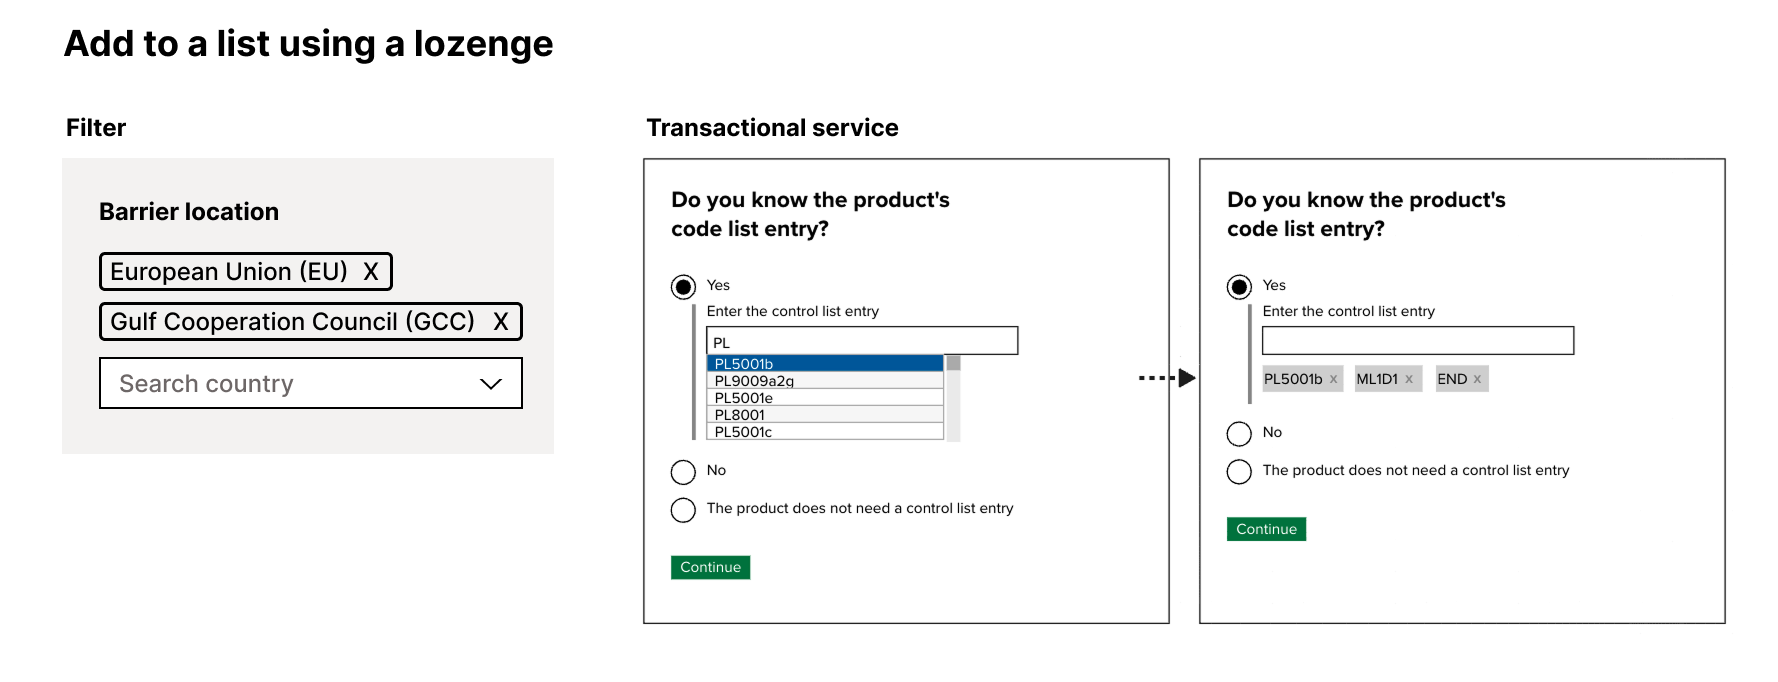
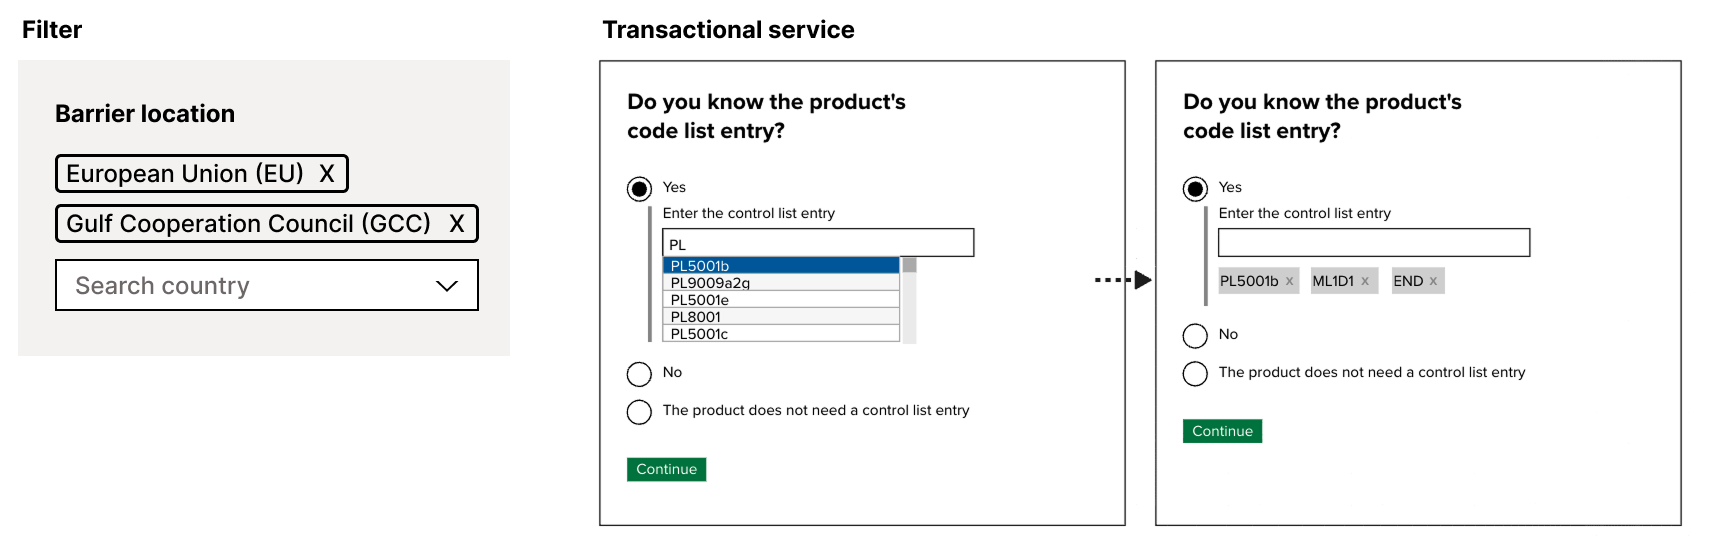
update images

diff --git a/apps/docs/src/common/pages/patterns/add-to-a-list.tsx b/apps/docs/src/common/pages/patterns/add-to-a-list.tsx
@@ -41,6 +41,10 @@ const Page: FC<PageProps> = () => (
 
       <p className="govuk-body">Allow users to add multiple pieces of similar information.</p>
 
+      <div className="example example-images confirmation" style={{marginBottom: "2em"}}>
+        <img src={addAnotherFlow} className="image-examples" alt="An example of an 'Add another' pattern using tables and cards" />
+      </div>
+
       <h2 className="govuk-heading-l">When to use</h2>
       <p>Use this pattern to manually add several things. Do not use to add things in bulk.</p>
 
@@ -61,7 +65,7 @@ const Page: FC<PageProps> = () => (
 
       <h3 className="govuk-heading-m">Table</h3>
       <p>Use tables to capture simple pieces of data.</p>
-    
+
       <h4 className="govuk-heading-s">Using a table on transactional services</h4>
       <p>On ECIL, the table component was used across multiple pages which allowed users to successfully add all intended countries to their application without a problem.</p>
       <p>The autocomplete component and summary list of added items are on separate screens.</p>
@@ -82,7 +86,7 @@ const Page: FC<PageProps> = () => (
       <p>DMAS uses a card on its internal service where more information needs to sit across a single page. It contains a typahead and summary list that sits within a single card. This pattern was developed by the BIST design working group to standardise internal services.</p>
 
 <div className="example example-images confirmation" style={{marginBottom: "2em"}}>
-  <img src={addAnotherDmas} className="image-examples" alt="An example of an 'Add another' pattern on the Digital Market Access System" />
+  <img src={addAnotherDmas} className="image-examples" alt="An example of an 'Add another' pattern on the Digital Market Access Service" />
 </div>
 
 
@@ -95,7 +99,7 @@ const Page: FC<PageProps> = () => (
   <p>DMAS uses lozenges as part of its filters which sits above the typahead whereas LITE uses them to capture control list entries on application forms; these sit beneath the typahead.
   More research is needed to understand its usage, in particular with accessibility.</p>
             <div className="example example-images confirmation" style={{marginBottom: "2em"}}>
-              <img src={entryLookup} className="image-examples" alt="An example of an interaction that shows contextual help" />
+              <img src={entryLookup} className="image-examples" alt="An example of an 'Add another' pattern using lozenges on a filter and transactional service" />
             </div>
 
             <h2 className="govuk-heading-l">Research</h2>
